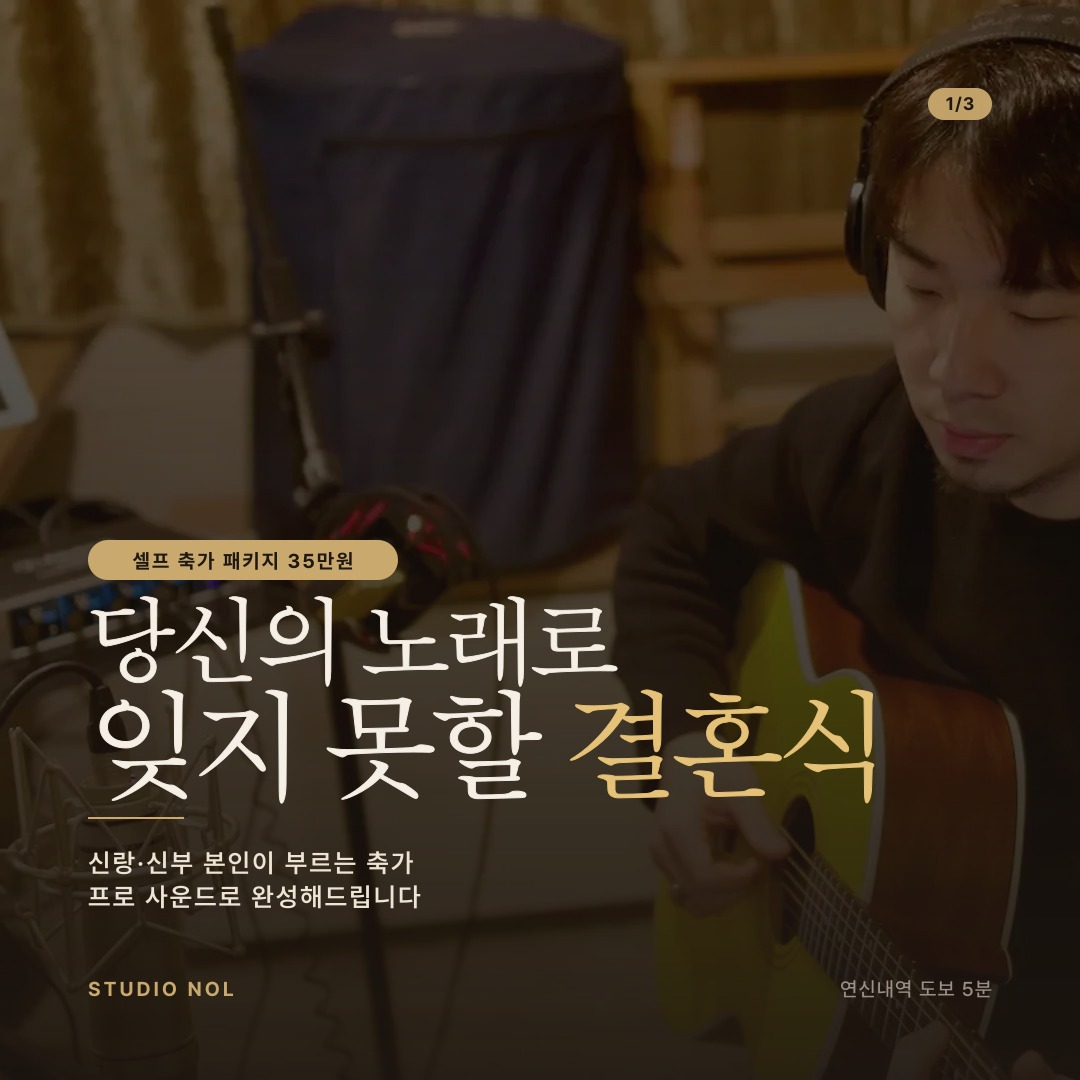
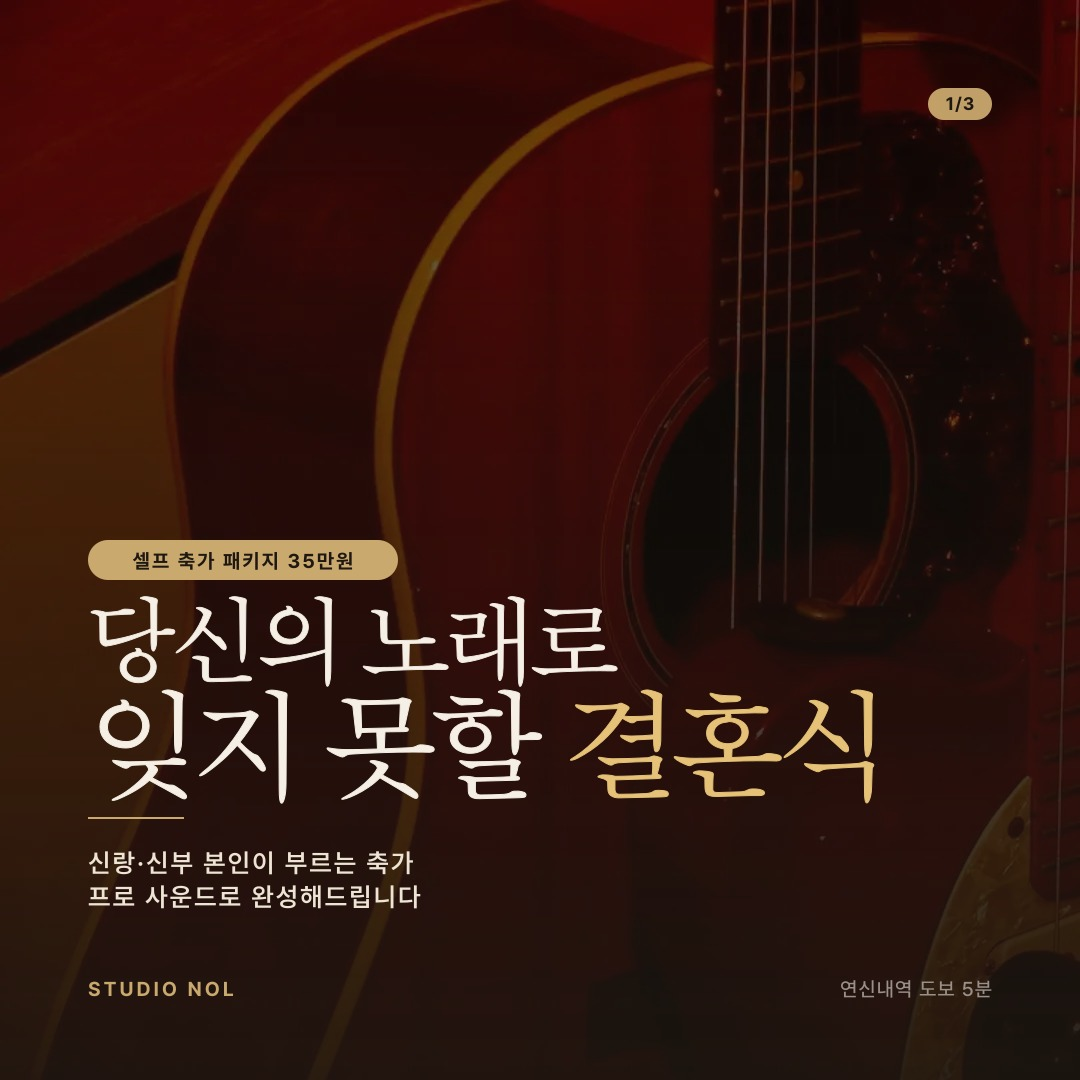
fix(marketing): 시리즈 4 표지 사진 교체 — 인물 동의 미확보로 hardware5(어쿠스틱)로 변경
- recording5 (셀프 어쿠스틱+헤드폰, 인물 옆모습) → hardware5 (어쿠스틱+베이스 기타 클로즈업)
- 사유: 인물 사용 동의 미확보
- 대체 사진은 인물 X + "셀프 축가 = 직접 연주" 컨셉 동일 전달
- position 'attention' → 'left'로 어쿠스틱 부분 강조
- design spec 변경 이력 추가

diff --git a/scripts/generate-naver-cards-s4.js b/scripts/generate-naver-cards-s4.js
@@ -79,8 +79,9 @@ function accentLine(x, y, length, opts = {}) {
 // CARD 1/3 — COVER "당신의 노래로 잊지 못할 결혼식"
 // =====================================================================
 async function card1() {
-  const bg = await sharp(path.join(IMG, 'recording5.webp'))
-    .resize(SIZE, SIZE, { fit: 'cover', position: 'attention' })
+  // hardware5 (acoustic + bass guitar) — 인물 없음, 셀프 축가 = 직접 연주 컨셉 매칭
+  const bg = await sharp(path.join(IMG, 'hardware5.webp'))
+    .resize(SIZE, SIZE, { fit: 'cover', position: 'left' })
     .modulate({ brightness: 0.55, saturation: 0.85 })
     .toBuffer();
 

diff --git a/docs/naver-smartplace/05-series-4-design-spec.md b/docs/naver-smartplace/05-series-4-design-spec.md
@@ -57,7 +57,7 @@ output: naver-cards/series-4/01-cover.jpg ~ 03-cta.jpg
 
 | 카드 | 사진 | 의미 |
 |---|---|---|
-| 1 표지 | recording5 (셀프 어쿠스틱 + 헤드폰) | "본인이 노래·연주" 셀프 축가 컨셉 직관 |
+| 1 표지 | hardware5 (어쿠스틱 + 베이스 기타 클로즈업) | 인물 없는 악기 컷 — "셀프 축가 = 직접 연주" 컨셉 매칭 |
 | 2 패키지 | hardware3 (Neumann U87AI) | 시그니처 마이크로 프로페셔널 시그널 |
 | 3 CTA | recording15 (보컬리스트 뒷모습 + 자연광) | 감성 + 인물 식별 X (안전) |
 
@@ -110,3 +110,4 @@ node scripts/generate-naver-cards-s4.js
 | 일자 | 내용 |
 |---|---|
 | 2026-04-27 | 시리즈 4 3장 최초 제작. 짧은 시즌형 구조(표지-패키지-CTA). 시리즈 2와 동일 차콜+골드 톤(녹음실 카테고리 정합). 카드 3 step·CTA 간격 1회 조정 (boxH 616→656, CTA y 572→608)으로 시각 압박감 해소. |
+| 2026-04-27 | **카드 1 표지 사진 교체**: recording5(셀프 어쿠스틱+헤드폰, 인물 옆모습) → hardware5(어쿠스틱+베이스 기타 클로즈업)로 변경. 사유: 인물 사용 동의 미확보. 대체 사진은 인물 없이 악기 클로즈업으로 "셀프 축가 = 직접 연주" 컨셉을 동일하게 전달. position 'attention' → 'left'로 어쿠스틱 부분이 잘 보이게 크롭. |
